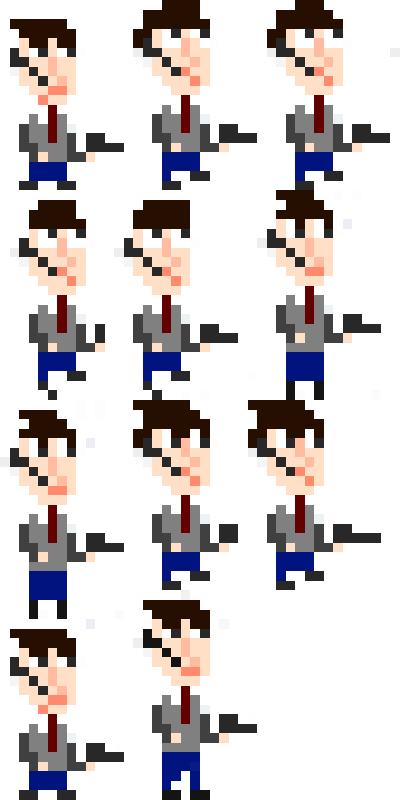
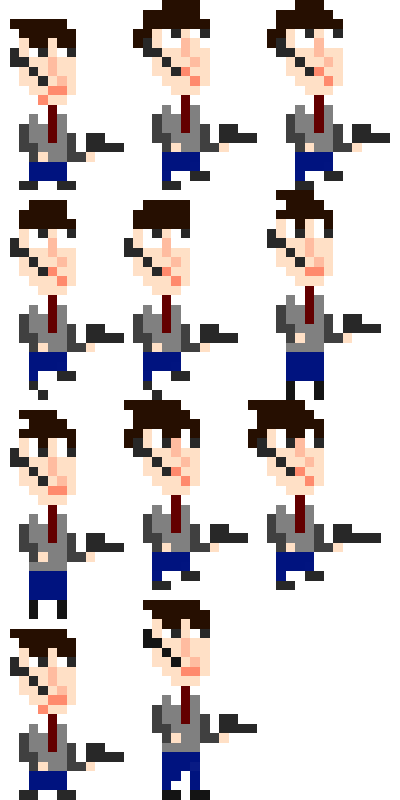
Added jumping animation.

Changed region(s): [[0.3, 0.5, 0.63, 0.75], [0.03, 0.25, 0.33, 0.5]]

diff --git a/PYGAME_PROJECT_SOURCE/platformer_template/player.py b/PYGAME_PROJECT_SOURCE/platformer_template/player.py
@@ -9,6 +9,43 @@ import constants
 from platforms import MovingPlatform
 from spritesheet_functions import SpriteSheet
 
+player_scale=2
+
+def sprite_parse_walk(self,sprite_sheet, player_bounds):
+    #Right facing:
+    right_facing_list=[]
+    left_facing_list=[]
+    walking_frames_r=[]
+    walking_frames_l=[]
+    for i in range(0, len(player_bounds)):
+        image = sprite_sheet.get_image(player_bounds[i][0], player_bounds[i][1], player_bounds[i][2], player_bounds[i][3])
+        image = pygame.transform.scale(image, (player_bounds[i][2]*player_scale,player_bounds[i][3]*player_scale))
+          #  self.walking_frames_r.append(image)
+        right_facing_list.append(image)
+        self.walking_frames_r.append(image)
+        image = pygame.transform.flip(image, True, False)
+        left_facing_list.append(image)
+        self.walking_frames_l.append(image)
+    return [right_facing_list, left_facing_list]
+
+def sprite_parse_jump(self,sprite_sheet, player_bounds):
+    #Right facing:
+    right_facing_list=[]
+    left_facing_list=[]
+    #jumping_frames_r=[]
+    #jumping_frames_l=[]
+    for i in range(0, len(player_bounds)):
+        image = sprite_sheet.get_image(player_bounds[i][0], player_bounds[i][1], player_bounds[i][2], player_bounds[i][3])
+        image = pygame.transform.scale(image, (player_bounds[i][2]*player_scale,player_bounds[i][3]*player_scale))
+          #  self.walking_frames_r.append(image)
+        right_facing_list.append(image)
+        self.jumping_frames_r.append(image)
+        image = pygame.transform.flip(image, True, False)
+        left_facing_list.append(image)
+        self.jumping_frames_l.append(image)
+    return [self.jumping_frames_l, self.jumping_frames_r]
+
+
 class Player(pygame.sprite.Sprite):
     """ This class represents the bar at the bottom that the player
     controls. """
@@ -17,111 +54,88 @@ class Player(pygame.sprite.Sprite):
     # Set speed vector of player
     change_x = 0
     change_y = 0
-
+    frameh=0
     # This holds all the images for the animated walk left/right
     # of our player
     walking_frames_l = []
     walking_frames_r = []
-
+    jumping_frames_l=[]
+    jumping_frames_r=[]
     # What direction is the player facing?
     direction = "R"
-
+    jump_switch=0
     # List of sprites we can bump against
     level = None
-
+    
     # -- Methods
     def __init__(self):
         """ Constructor function """
-
+        frameh=0
         # Call the parent's constructor
         pygame.sprite.Sprite.__init__(self)
         player_w=134-4
         player_h=198+2
         sprite_sheet = SpriteSheet("template_char.png")
+        jumping_sprite_sheet=SpriteSheet("jumping_char.png")
         # Load all the right facing images into a list
-      
-        image = sprite_sheet.get_image(0, 0, player_w, player_h)
-        image = pygame.transform.scale(image, (player_w*3,player_h*3))
-        self.walking_frames_r.append(image)
+        #Right facing running animiations:
+        player_bounds=[[0,0,player_w,player_h],[player_w, 0, player_w,player_h],[player_w*2,0,player_w,player_h],[0, player_h, player_w, player_h],[player_w,player_h,player_w,player_h],[player_w*2, player_h, player_w, player_h],[0,2*player_h,player_w,player_h],[player_w,2*player_h,player_w,player_h],[2*player_w,2*player_h, player_w, player_h],[0,3*player_h,player_w, player_h],[player_w,3*player_h,player_w, player_h]]
+       
+        jumping_bounds=[[0,19,133,171],[125,0,142,190],[265,0,126,190],[0,200,124,200],[124,200,124,200],[257,190,134,210],[257,190,134,210],[257,190,134,210],[257,190,134,210],[257,190,134,210],[257,190,134,210]]
         
-        image = sprite_sheet.get_image(player_w, 0,player_w, player_h)
-        image = pygame.transform.scale(image, (player_w*3,player_h*3))
-        self.walking_frames_r.append(image)
-        
-        image = sprite_sheet.get_image(player_w*2, 0, player_w, player_h)
-        image = pygame.transform.scale(image, (player_w*3,player_h*3))
-        self.walking_frames_r.append(image)
-        
-        image = sprite_sheet.get_image(0, player_h, player_w, player_h)
-        image = pygame.transform.scale(image, (player_w*3,player_h*3))
-        self.walking_frames_r.append(image)
-        
-        image = sprite_sheet.get_image(player_w, player_h, player_w, player_h)
-        image = pygame.transform.scale(image, (player_w*3,player_h*3))
-        self.walking_frames_r.append(image)
-        
-        image = sprite_sheet.get_image(player_w*2, player_h, player_w, player_h)
-        image = pygame.transform.scale(image, (player_w*3,player_h*3))
-        self.walking_frames_r.append(image)
-
-        image = sprite_sheet.get_image(0, 2*player_h, player_w,player_h)
-        image = pygame.transform.scale(image, (player_w*3,player_h*3))
-        self.walking_frames_r.append(image)
-
-        #        # Load all the right facing images, then flip them
-        # to face left.
-        image = sprite_sheet.get_image(0, 0, player_w, player_h)
-        image = pygame.transform.scale(image, (player_w*3,player_h*3))
-        image = pygame.transform.flip(image, True, False)
-        self.walking_frames_l.append(image)
-        
-        image = sprite_sheet.get_image(player_w, 0,player_w, player_h)
-        image = pygame.transform.scale(image, (player_w*3,player_h*3))
-        self.walking_frames_l.append(image)
-        
-        image = sprite_sheet.get_image(player_w*2, 0, player_w, player_h)
-        image = pygame.transform.scale(image, (player_w*3,player_h*3))
-        image = pygame.transform.flip(image, True, False)
-        self.walking_frames_l.append(image)
-        
-        image = sprite_sheet.get_image(0, player_h, player_w, player_h)
-        image = pygame.transform.scale(image, (player_w*3,player_h*3))
-        image = pygame.transform.flip(image, True, False)
-        self.walking_frames_l.append(image)
-        
-        image = sprite_sheet.get_image(player_w, player_h, player_w, player_h)
-        image = pygame.transform.scale(image, (player_w*3,player_h*3))
-        image = sprite_sheet.get_image(player_w*2, player_h, player_w, player_h)
-        image = pygame.transform.scale(image, (player_w*3,player_h*3))
-        image = pygame.transform.flip(image, True, False)
-        self.walking_frames_l.append(image)
-
-        image = sprite_sheet.get_image(0, 2*player_h, player_w,player_h)
-        image = pygame.transform.scale(image, (player_w*3,player_h*3))
-        image = pygame.transform.flip(image, True, False)
-        self.walking_frames_l.append(image)
-
+        walking_frames_r=sprite_parse_walk(self,sprite_sheet,player_bounds)[0]
+        walking_frames_l=sprite_parse_walk(self,sprite_sheet,player_bounds)[1]
+        self.jumping_frames_r=sprite_parse_jump(self, jumping_sprite_sheet, jumping_bounds)[1]
+        self.jumping_frames_l=sprite_parse_jump(self, jumping_sprite_sheet, jumping_bounds)[0]
         # Set the image the player starts with
         self.image = self.walking_frames_r[0]
-
         # Set a referance to the image rect.
         self.rect = self.image.get_rect()
 
     def update(self):
         """ Move the player. """
-        # Gravity
+        # Gravity`
         self.calc_grav()
-
         # Move left/right
         self.rect.x += self.change_x
         pos = self.rect.x + self.level.world_shift
-        if self.direction == "R":
-            frame = (pos // 30) % len(self.walking_frames_r)
-            self.image = self.walking_frames_r[frame]
-        else:
-            frame = (pos // 30) % len(self.walking_frames_l)
-            self.image = self.walking_frames_l[frame]
+        height= constants.SCREEN_HEIGHT  - self.rect.y
 
+        if self.jump_switch==0:
+            frameh=0
+            if self.direction == "R":
+                frame = (pos // 30) % len(self.walking_frames_r)
+                self.image = self.walking_frames_r[frame]
+            elif self.direction=="L":
+                frame = (pos // 30) % len(self.walking_frames_l)
+                self.image = self.walking_frames_l[frame]
+        #if self.jump_switch==1:
+            #for frame in range(0,len(self.jumping_frames_r)):
+            
+            #frameh=(height // 15) % len(self.jumping_frames_r)
+        if self.jump_switch==1:
+            frameh=0
+            if self.direction=="L":
+                #print(self.frameh)
+                frameh = (height // 40) % len(self.jumping_frames_l)
+                #print(frame)
+                self.image=self.jumping_frames_l[frameh]
+            elif self.direction=="R":
+                frameh = (height // 40) % len(self.jumping_frames_r)
+                #print(frame)
+                self.image=self.jumping_frames_r[frameh]
+            elif self.change_x==0:
+                frameh = (height // 40) % len(self.jumping_frames_r)
+                self.image=self.jumping_frames_r[frameh]
+            
+            print(frameh)
+
+        #if self.frameh==6: self.frameh=0
+        if self.change_y==0: 
+            self.jump_switch=0
+            frameh=0
+        if self.change_x==0 and self.direction=="R": self.image=self.walking_frames_r[0]
+        if self.change_x==0 and self.direction=="L": self.image=self.walking_frames_l[0]
         # See if we hit anything
         block_hit_list = pygame.sprite.spritecollide(self, self.level.platform_list, False)
         for block in block_hit_list:
@@ -135,9 +149,6 @@ class Player(pygame.sprite.Sprite):
 
         # Move up/down
         self.rect.y += self.change_y
-     #   if self.change_y>0:
-     #      frame = (pos // 30) % len(self.jumping_frames)
-     #      self.image = self.jumping_frames   
         # Check and see if we hit anything
         block_hit_list = pygame.sprite.spritecollide(self, self.level.platform_list, False)
         for block in block_hit_list:
@@ -150,10 +161,8 @@ class Player(pygame.sprite.Sprite):
 
             # Stop our vertical movement
             self.change_y = 0
-
             if isinstance(block, MovingPlatform):
                 self.rect.x += block.change_x
-
     def calc_grav(self):
         """ Calculate effect of gravity. """
         if self.change_y == 0:
@@ -168,19 +177,18 @@ class Player(pygame.sprite.Sprite):
 
     def jump(self):
         """ Called when user hits 'jump' button. """
-
-        # move down a bit and see if there is a platform below us.
+               # move down a bit and see if there is a platform below us.
         # Move down 2 pixels because it doesn't work well if we only move down 1
         # when working with a platform moving down.
         self.rect.y += 4
         platform_hit_list = pygame.sprite.spritecollide(self, self.level.platform_list, False)
         self.rect.y -= 4
-
+    
         # If it is ok to jump, set our speed upwards
         if len(platform_hit_list) > 0 or self.rect.bottom >= constants.SCREEN_HEIGHT:
-            self.change_y = -10
-
-    # Player-controlled movement:
+            self.change_y = -20
+            self.jump_switch=1
+                       # Player-controlled movement:
     def go_left(self):
         """ Called when the user hits the left arrow. """
         self.change_x = -9

diff --git a/PYGAME_PROJECT_SOURCE/platformer_template/platform_scroller.py b/PYGAME_PROJECT_SOURCE/platformer_template/platform_scroller.py
@@ -85,6 +85,9 @@ def main():
                     player.stop()
                 if event.key == pygame.K_RIGHT and player.change_x > 0:
                     player.stop()
+                if event.key == pygame.K_UP and player.change_y ==0:
+                    player.frameh=0
+                    player.jump_switch=0
 
         # Update the player.
         active_sprite_list.update()

diff --git a/PYGAME_PROJECT_SOURCE/platformer_template/spritesheet_functions.py b/PYGAME_PROJECT_SOURCE/platformer_template/spritesheet_functions.py
@@ -33,3 +33,5 @@ class SpriteSheet(object):
 
         # Return the image
         return image
+    
+   
